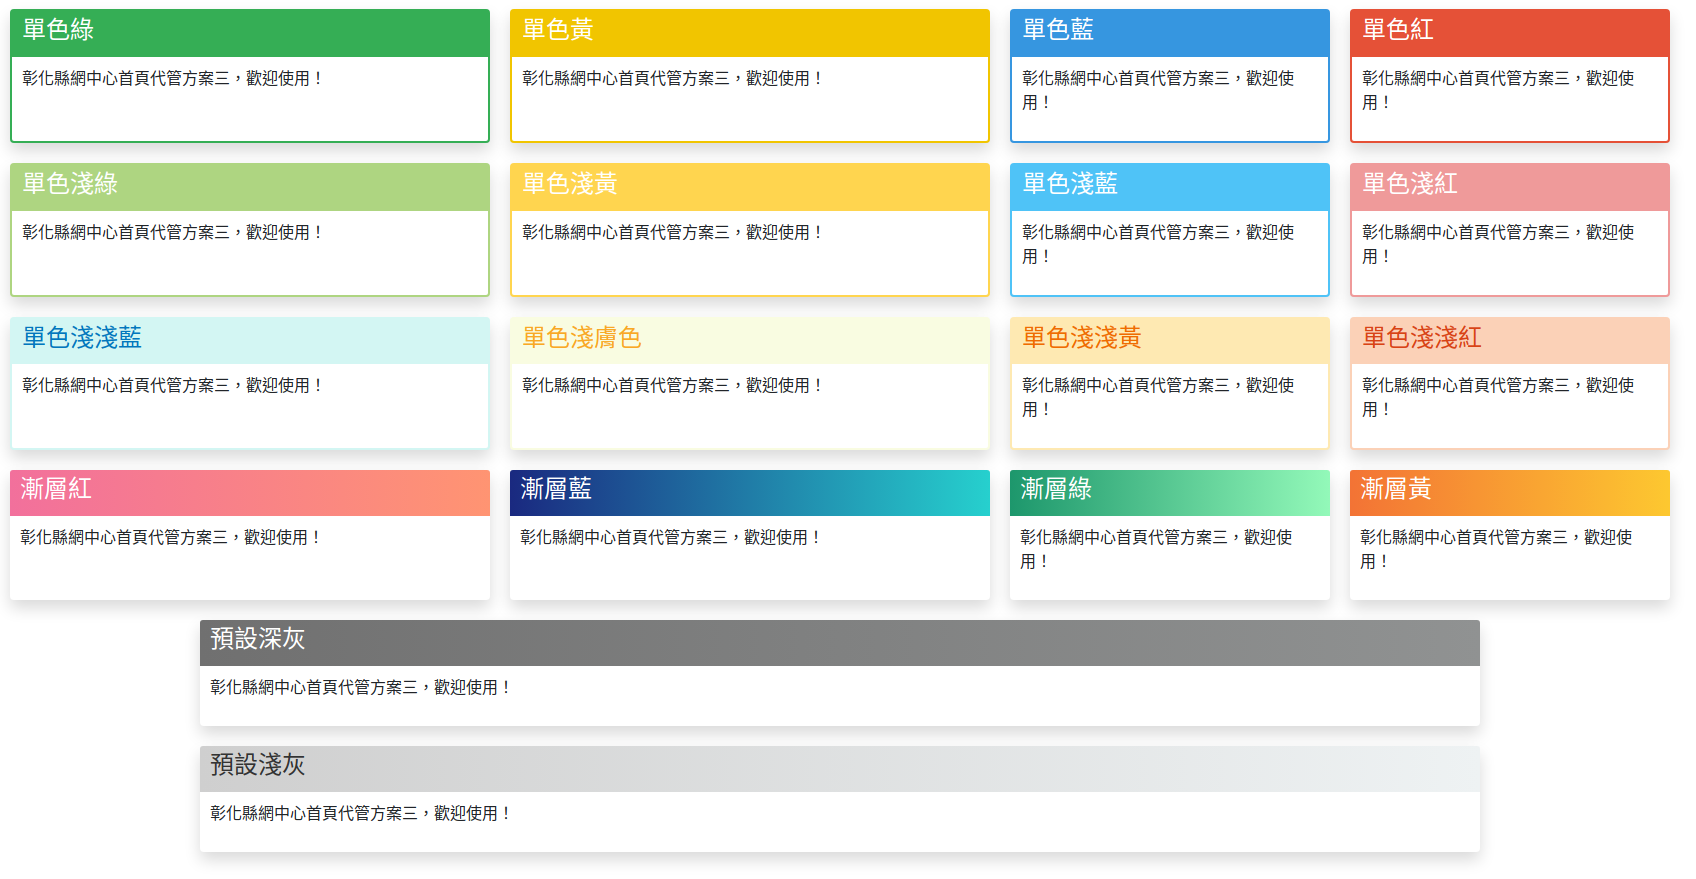
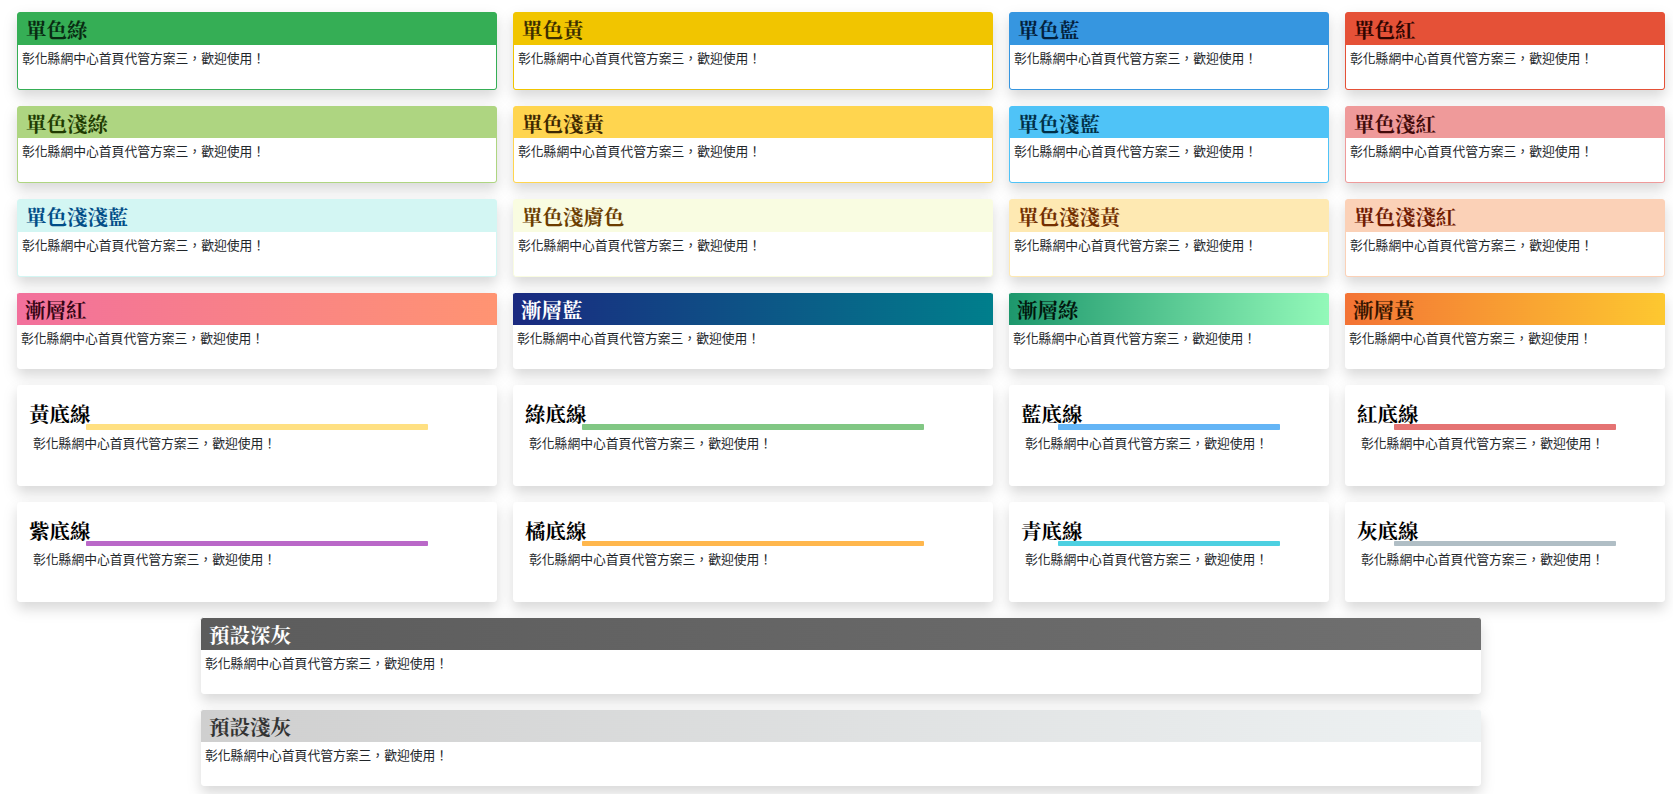
增加區塊標題顏色

diff --git a/public/css/block_style.css b/public/css/block_style.css
@@ -1,3 +1,33 @@
+/* =========================================================
+   1. 全域標題字型與大小統一 (強制 1.6rem + 標楷體 + 粗體)
+   ========================================================= */
+.original-title, .title1, .title2, .title3, .title4,
+.soft-title1, .soft-title2, .soft-title3, .soft-title4, .soft-title5, .soft-title6, .soft-title7, .soft-title8,
+.gradient-title1, .gradient-title2, .gradient-title3, .gradient-title4,
+.sp-title1, .sp-title2, .sp-title3, .sp-title4, .sp-title5, .sp-title6, .sp-title7, .sp-title8,
+.default-title1, .default-title2 {
+    font-family: "DFKai-SB", "BiauKai", "標楷體", "PMingLiU", "Songti TC", serif !important;
+    font-size: 1.6rem !important;
+    font-weight: bold !important;
+}
+
+/* 確保容器內部不論是 div, span, h1~h6, p 都能繼承字型大小與顏色，並消除預設邊距 */
+.original-title *, .title1 *, .title2 *, .title3 *, .title4 *,
+.soft-title1 *, .soft-title2 *, .soft-title3 *, .soft-title4 *, .soft-title5 *, .soft-title6 *, .soft-title7 *, .soft-title8 *,
+.gradient-title1 *, .gradient-title2 *, .gradient-title3 *, .gradient-title4 *,
+.sp-title1 *, .sp-title2 *, .sp-title3 *, .sp-title4 *, .sp-title5 *, .sp-title6 *, .sp-title7 *, .sp-title8 *,
+.default-title1 *, .default-title2 * {
+    font-family: inherit !important;
+    font-size: inherit !important;
+    font-weight: inherit !important;
+    color: inherit !important;
+    margin: 0 !important;
+}
+
+/* =========================================================
+   2. 各區塊原有樣式 (100% 保留顏色、背景與對比度)
+   ========================================================= */
+
 /* 單色綠 */
 .original-block {
     margin-bottom: 20px;
@@ -13,6 +43,7 @@
     padding-bottom: 4px;
     color: #1a1a1a; /* 17.4:1 */
 }
+
 .block1 {
     border: 2px solid #35ae55;
     margin-bottom: 20px;
@@ -223,7 +254,7 @@
     color: #360515; /* 暗李紫，全寬對比度 6.37:1 ~ 8.18:1 */
 }
 
-/* 漸層藍 (微調右側顏色以維護全寬白字對比度) */
+/* 漸層藍 */
 .gradient-block2 {
     margin-bottom: 20px;
     padding: 0;
@@ -280,7 +311,91 @@
     color: #361500; /* 深濃咖啡色，全寬對比度 5.79:1 ~ 10.66:1 */
 }
 
-/* 預設深灰 (微調右側顏色以維護全寬白字對比度) */
+/* =========================================================
+   3. 特殊底線標題區塊 (sp-title1 ~ sp-title8) 共用架構
+   ========================================================= */
+.sp-block1, .sp-block2, .sp-block3, .sp-block4,
+.sp-block5, .sp-block6, .sp-block7, .sp-block8 {
+    background-color: #ffffff;
+    margin-bottom: 25px;
+    padding: 15px;
+}
+
+.sp-title1, .sp-title2, .sp-title3, .sp-title4,
+.sp-title5, .sp-title6, .sp-title7, .sp-title8 {
+    background-color: transparent;
+    padding: 5px 0 5px 0;
+    color: #000000;
+    position: relative;
+}
+
+/* 共通底線位置與形狀 (佔據區塊 75% 寬度、高度 7px) */
+.sp-title1::after, .sp-title1 *::after,
+.sp-title2::after, .sp-title2 *::after,
+.sp-title3::after, .sp-title3 *::after,
+.sp-title4::after, .sp-title4 *::after,
+.sp-title5::after, .sp-title5 *::after,
+.sp-title6::after, .sp-title6 *::after,
+.sp-title7::after, .sp-title7 *::after,
+.sp-title8::after, .sp-title8 *::after {
+    content: "";
+    display: block;
+    width: 75%;
+    height: 7px;
+    position: absolute;
+    bottom: 0;
+    left: 50%;
+    transform: translateX(-50%);
+    border-radius: 2px;
+}
+
+/* --- 特殊底線顏色個別設定 --- */
+
+/* 1. 特殊黃線標題區塊 */
+.sp-title1::after, .sp-title1 *::after {
+    background-color: #ffe082;
+}
+
+/* 2. 特殊綠線標題區塊 */
+.sp-title2::after, .sp-title2 *::after {
+    background-color: #81c784;
+}
+
+/* 3. 特殊藍線標題區塊 */
+.sp-title3::after, .sp-title3 *::after {
+    background-color: #64b5f6;
+}
+
+/* 4. 特殊紅線標題區塊 */
+.sp-title4::after, .sp-title4 *::after {
+    background-color: #e57373;
+}
+
+/* 5. 特殊紫線標題區塊 */
+.sp-title5::after, .sp-title5 *::after {
+    background-color: #ba68c8;
+}
+
+/* 6. 特殊橘線標題區塊 */
+.sp-title6::after, .sp-title6 *::after {
+    background-color: #ffb74d;
+}
+
+/* 7. 特殊青綠線標題區塊 */
+.sp-title7::after, .sp-title7 *::after {
+    background-color: #4dd0e1;
+}
+
+/* 8. 特殊灰線標題區塊 */
+.sp-title8::after, .sp-title8 *::after {
+    background-color: #b0bec5;
+}
+
+/* =========================================================
+   4. 預設灰階標題區塊
+   ========================================================= */
+
+/* 預設深灰 */
 .default-block1 {
     margin-bottom: 20px;
     padding: 0;
@@ -319,5 +434,5 @@
 }
 
 .content2 {
-    padding: 10px;
+    padding: 5px;
 }

diff --git a/resources/views/setups/block_color.blade.php b/resources/views/setups/block_color.blade.php
@@ -172,6 +172,86 @@
                 </p>
             </div>
         </div>
+        <div class="col-md-3 sp-block1 shadow rounded" style="margin: 10px;">
+            <div class="sp-title1">
+                <h4>黃底線</h4>
+            </div>
+            <div class="content2">
+                <p>
+                    彰化縣網中心首頁代管方案三，歡迎使用！
+                </p>
+            </div>
+        </div>
+        <div class="col-md-3 sp-block1 shadow rounded" style="margin: 10px;">
+            <div class="sp-title2">
+                <h4>綠底線</h4>
+            </div>
+            <div class="content2">
+                <p>
+                    彰化縣網中心首頁代管方案三，歡迎使用！
+                </p>
+            </div>
+        </div>
+        <div class="col-md-2 sp-block1 shadow rounded" style="margin: 10px;">
+            <div class="sp-title3">
+                <h4>藍底線</h4>
+            </div>
+            <div class="content2">
+                <p>
+                    彰化縣網中心首頁代管方案三，歡迎使用！
+                </p>
+            </div>
+        </div>
+        <div class="col-md-2 sp-block1 shadow rounded" style="margin: 10px;">
+            <div class="sp-title4">
+                <h4>紅底線</h4>
+            </div>
+            <div class="content2">
+                <p>
+                    彰化縣網中心首頁代管方案三，歡迎使用！
+                </p>
+            </div>
+        </div>
+        <div class="col-md-3 sp-block1 shadow rounded" style="margin: 10px;">
+            <div class="sp-title5">
+                <h4>紫底線</h4>
+            </div>
+            <div class="content2">
+                <p>
+                    彰化縣網中心首頁代管方案三，歡迎使用！
+                </p>
+            </div>
+        </div>
+        <div class="col-md-3 sp-block1 shadow rounded" style="margin: 10px;">
+            <div class="sp-title6">
+                <h4>橘底線</h4>
+            </div>
+            <div class="content2">
+                <p>
+                    彰化縣網中心首頁代管方案三，歡迎使用！
+                </p>
+            </div>
+        </div>
+        <div class="col-md-2 sp-block1 shadow rounded" style="margin: 10px;">
+            <div class="sp-title7">
+                <h4>青底線</h4>
+            </div>
+            <div class="content2">
+                <p>
+                    彰化縣網中心首頁代管方案三，歡迎使用！
+                </p>
+            </div>
+        </div>
+        <div class="col-md-2 sp-block1 shadow rounded" style="margin: 10px;">
+            <div class="sp-title8">
+                <h4>灰底線</h4>
+            </div>
+            <div class="content2">
+                <p>
+                    彰化縣網中心首頁代管方案三，歡迎使用！
+                </p>
+            </div>
+        </div>
     </div>
     <div class="row justify-content-center">
         <div class="col-md-8 default-block1 shadow rounded" style="margin: 10px;">
@@ -196,5 +276,5 @@
                 </p>
             </div>
         </div>
-    </div>
+    </div>    
 @endsection

diff --git a/resources/views/index.blade.php b/resources/views/index.blade.php
@@ -155,7 +155,7 @@
                                 $title=str_replace('(系統區塊)','',$title);$title = str_replace_last("_圖文版","",$title);$block_position = ($block->block_position==null)?"text-left":$block->block_position;
                                 if($block->block_position=="disable") $block_position = null;
                             ?>
-                            <h2 class="h5 {{ $block_position }}">
+                            <div class="{{ $block_position }}">
                                 @if($block_position) 
                                     {!! a11y_emoji($title) !!}
                                 @endif
@@ -166,7 +166,7 @@
                                         </div>
                                     @endif
                                 @endauth
-                            </h2>
+                            </div>
                         </div>
                         @endif
                         <div class="content2" id="block{{ $block->id }}" style="margin-bottom: 5px;">

diff --git a/config/chcschool.php b/config/chcschool.php
@@ -231,6 +231,14 @@ return [
         '漸層藍'=>'gradient-block2,gradient-title2',
         '漸層綠'=>'gradient-block3,gradient-title3',
         '漸層黃'=>'gradient-block4,gradient-title4',
+        '黃底線'=>'sp-block1,sp-title1',
+        '綠底線'=>'sp-block1,sp-title2',
+        '藍底線'=>'sp-block1,sp-title3',
+        '紅底線'=>'sp-block1,sp-title4',
+        '紫底線'=>'sp-block1,sp-title5',
+        '橘底線'=>'sp-block1,sp-title6',
+        '青底線'=>'sp-block1,sp-title7',
+        '灰底線'=>'sp-block1,sp-title8',
         '預設深灰'=>'default-block1,default-title1',
         '漸層淺灰'=>'default-block2,default-title2',
     ],
